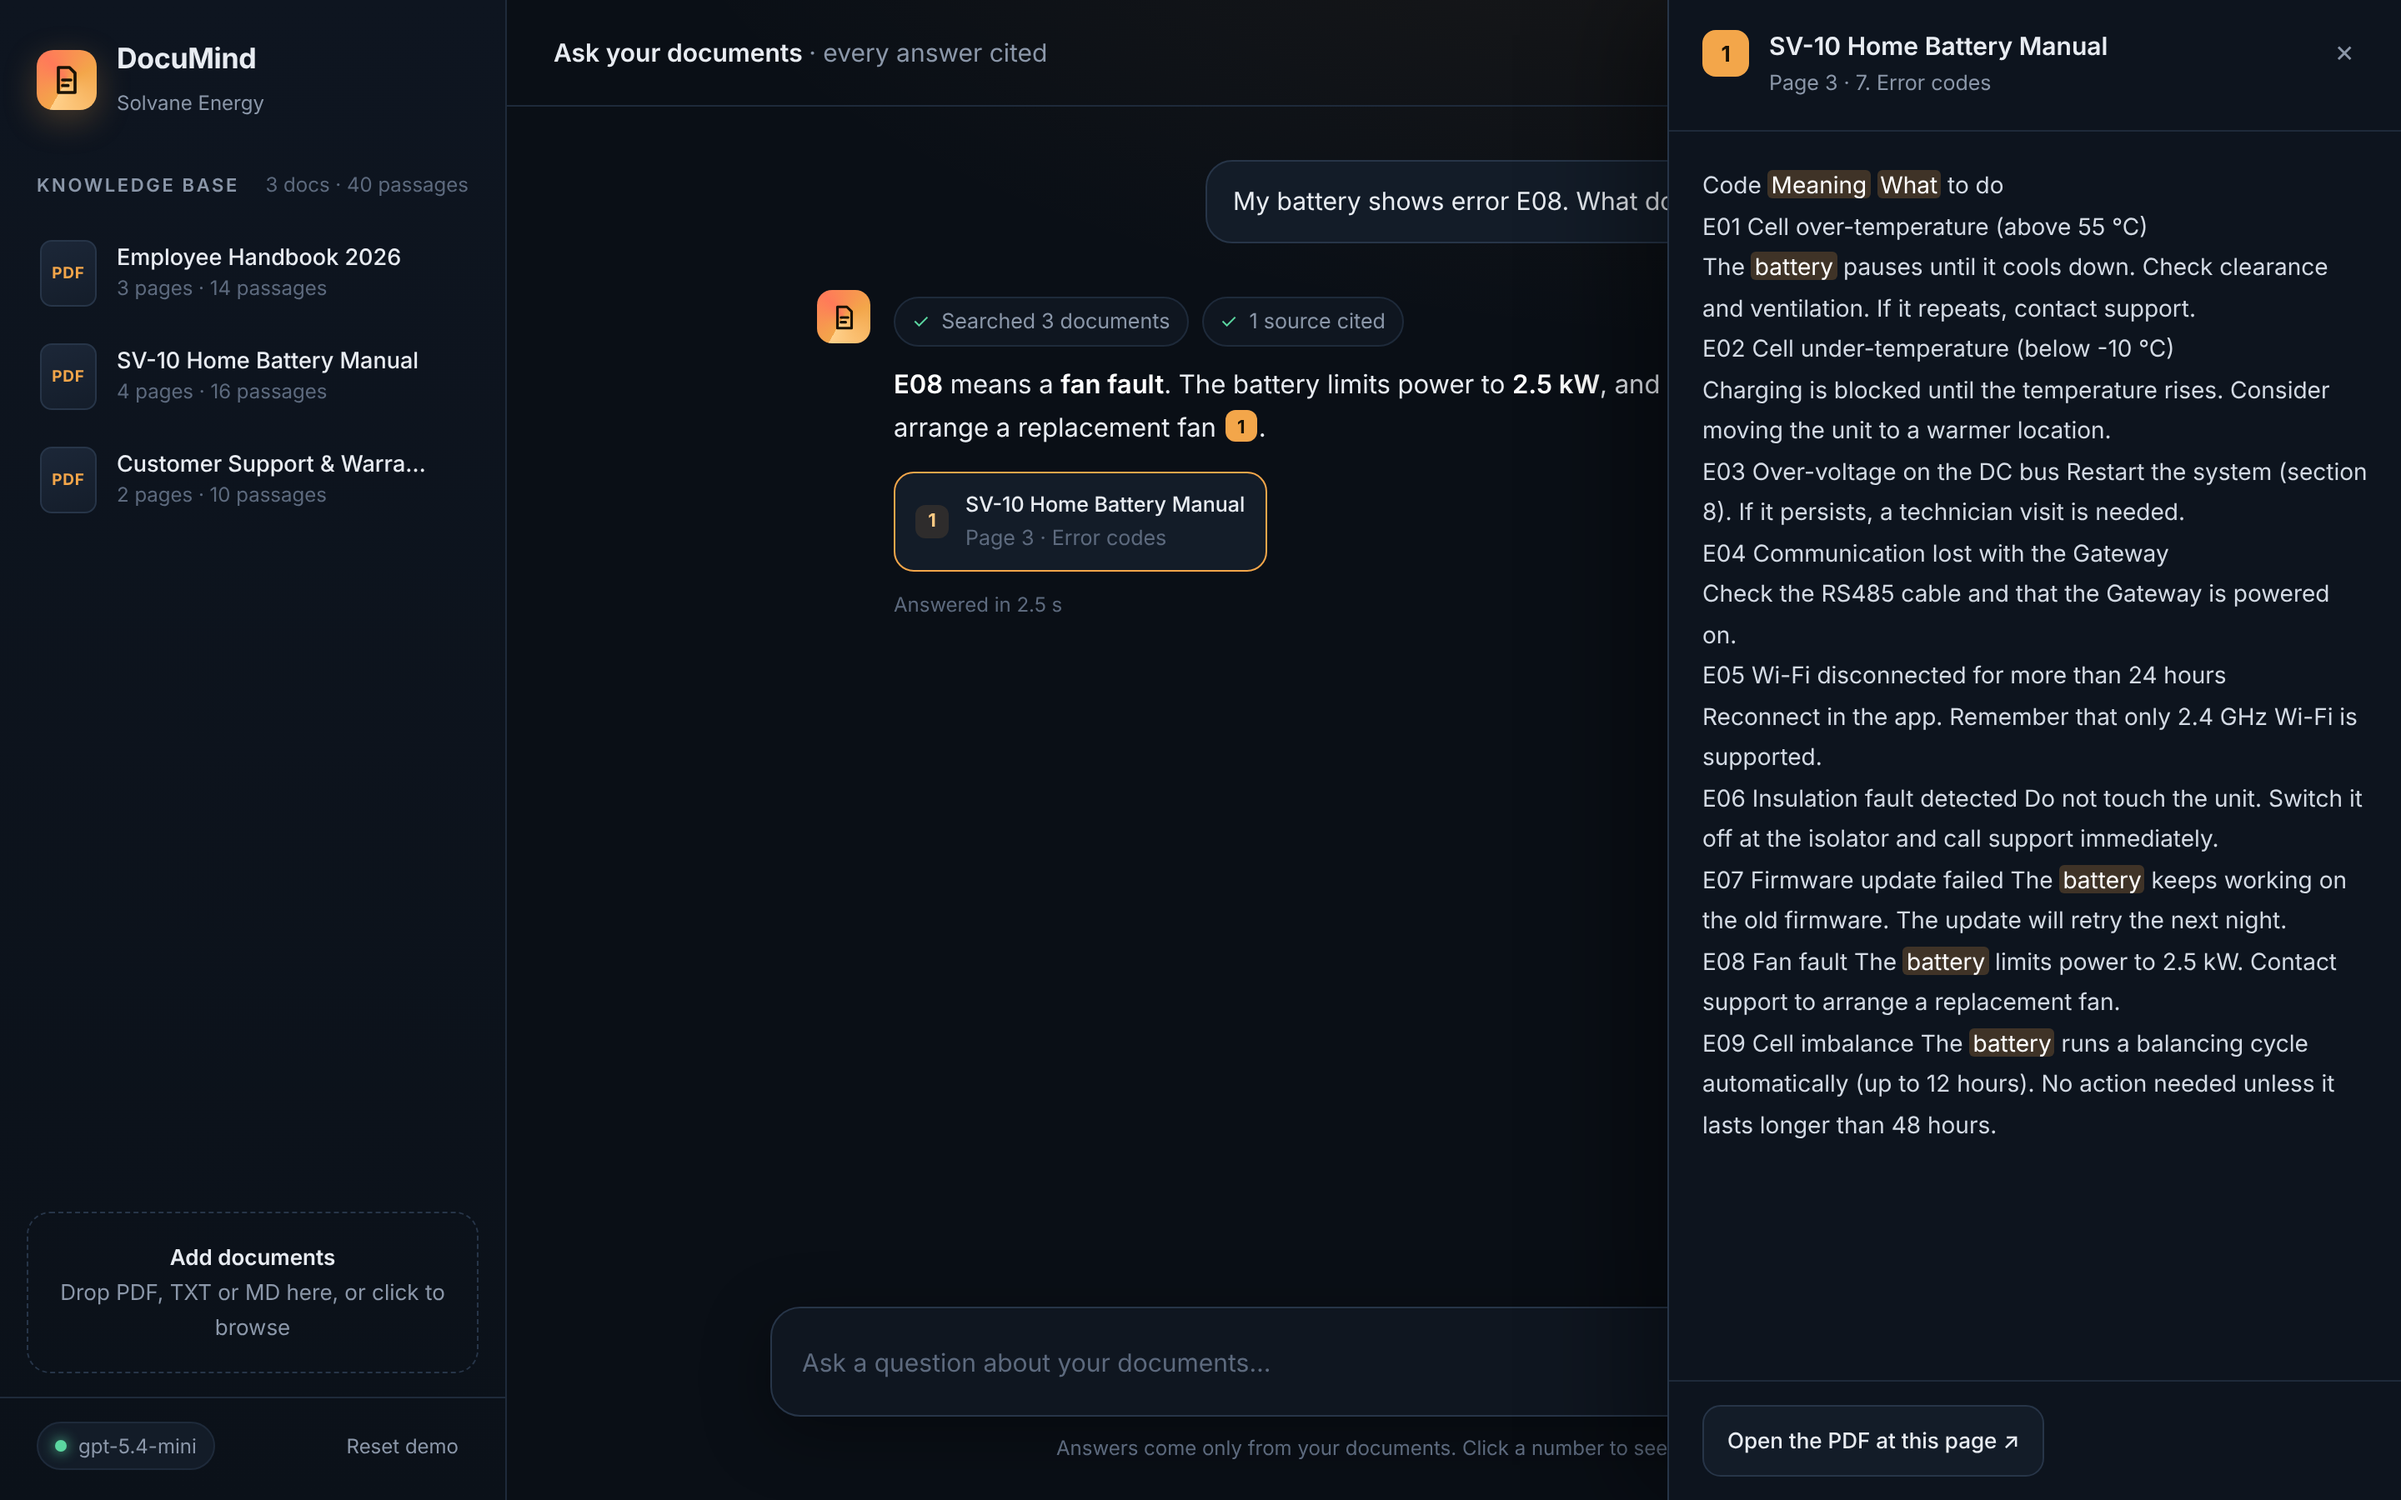
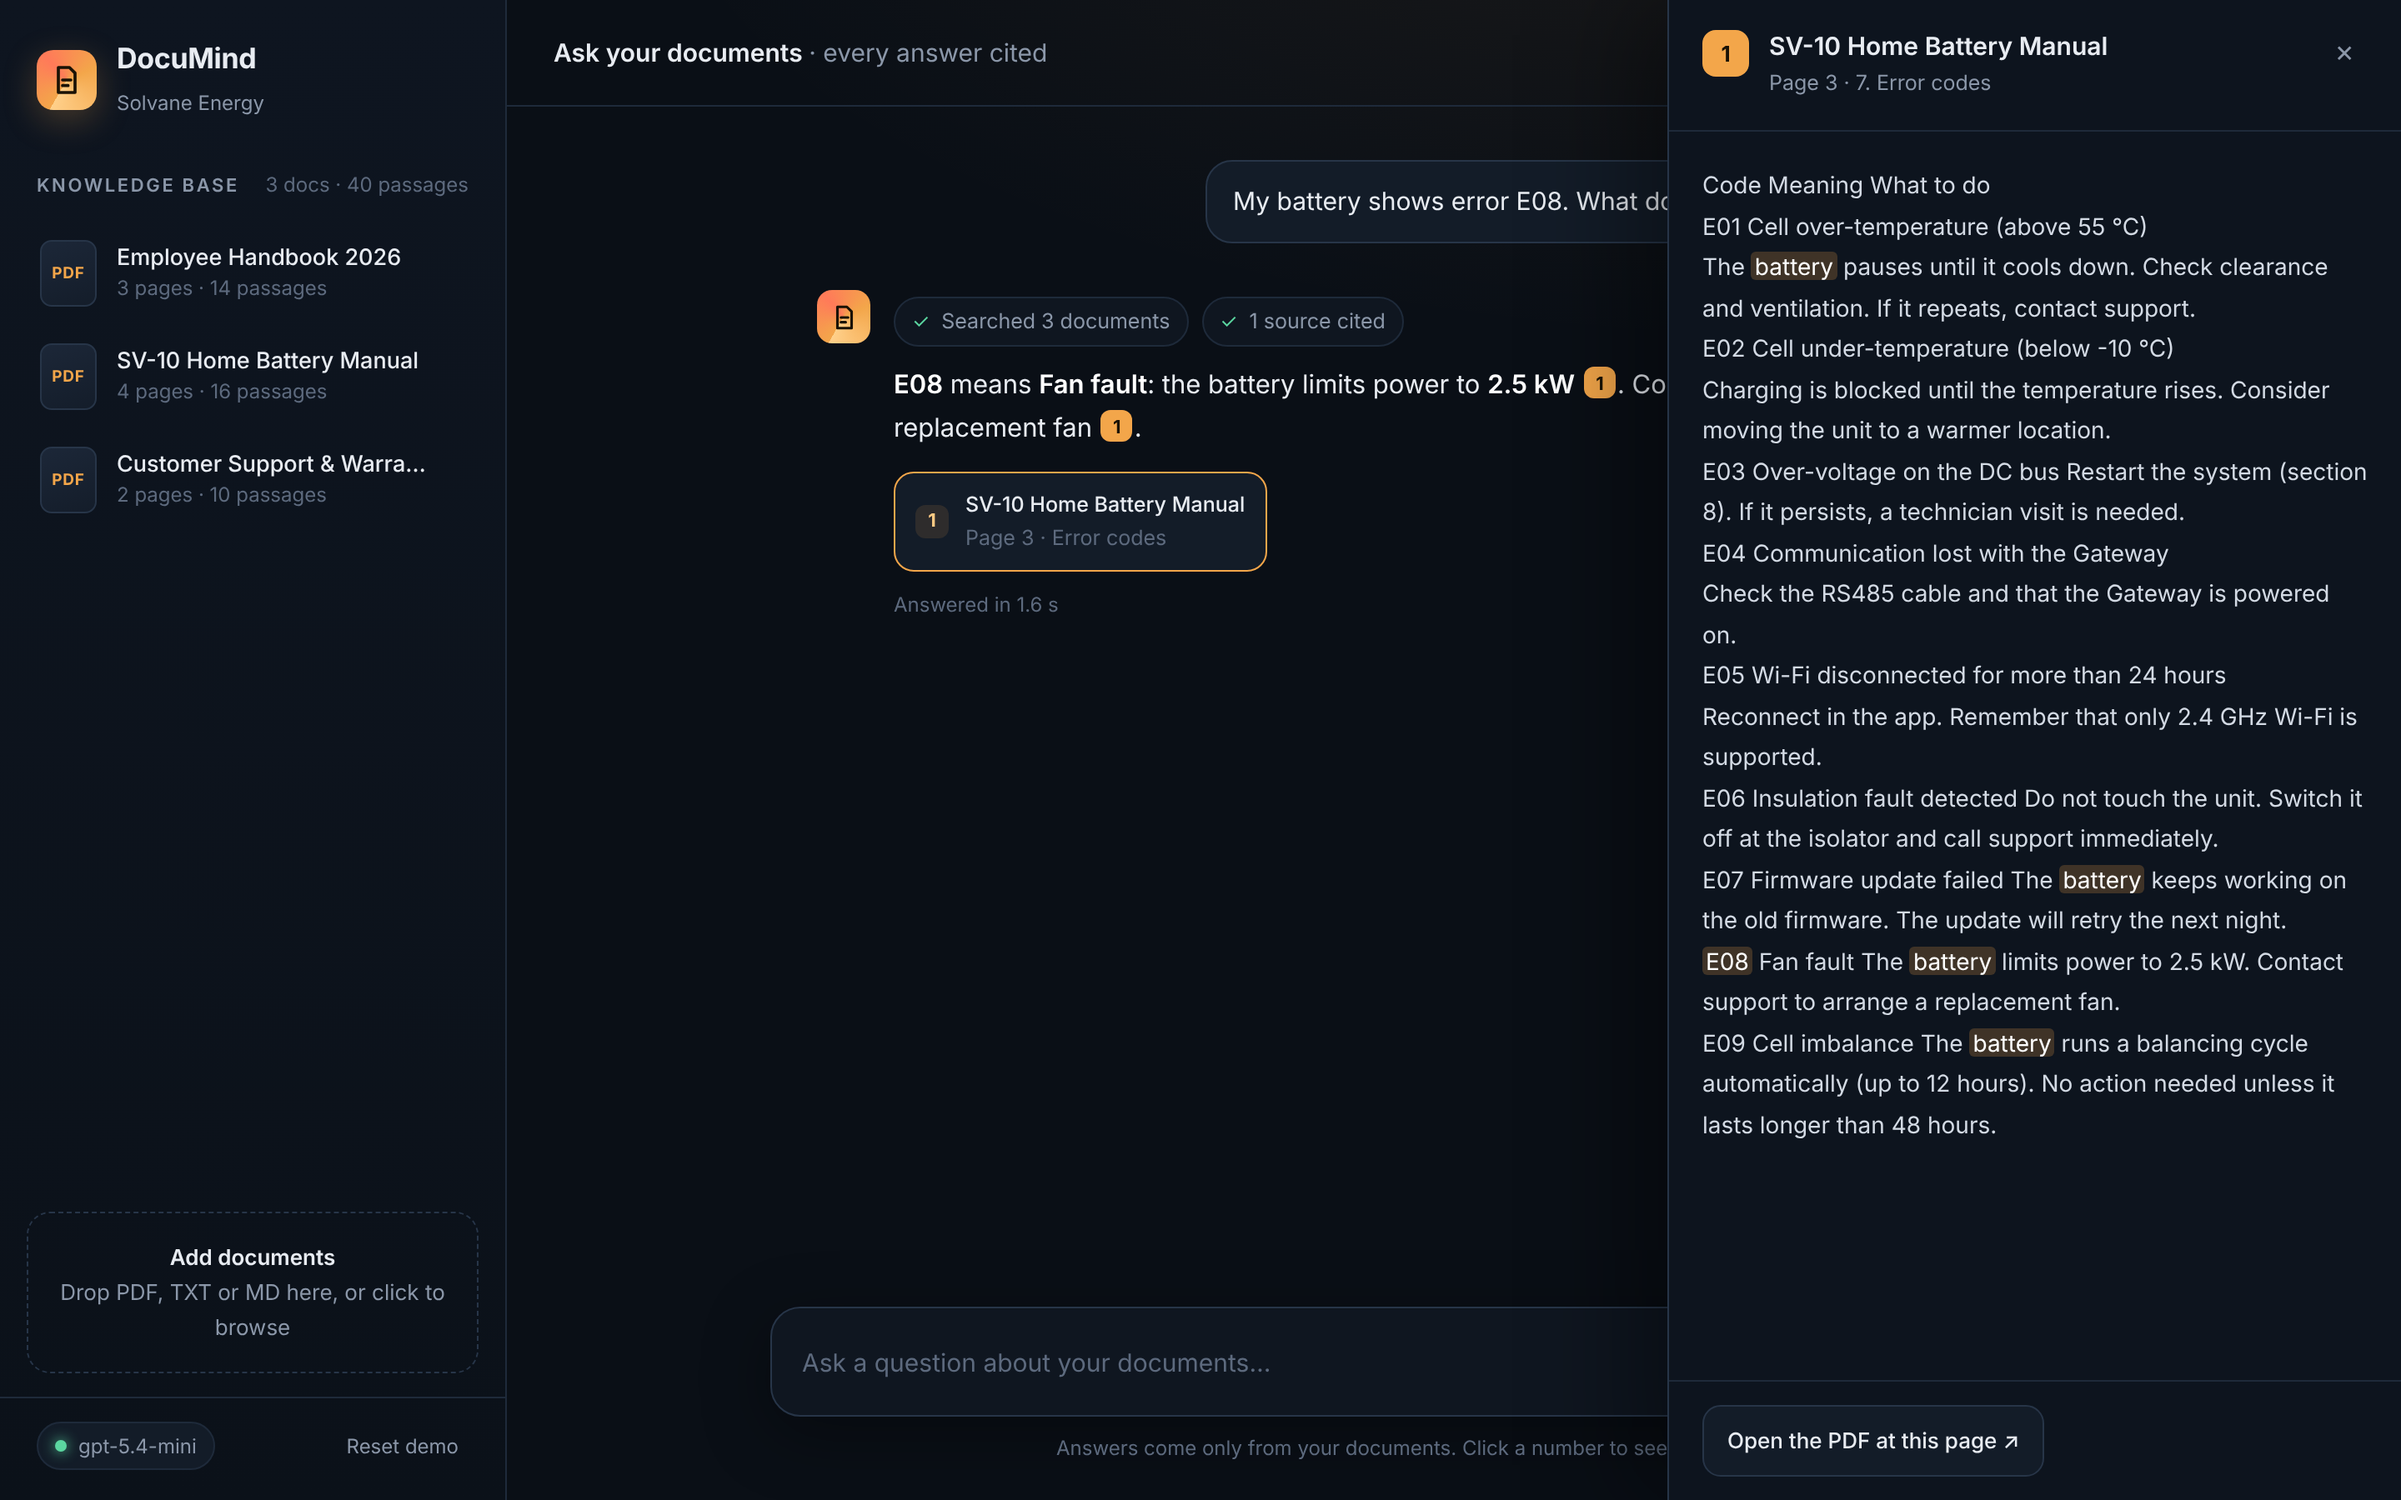
Highlight codes and key terms in the source panel; refresh screenshot

Changed region(s): [[0.375, 0.2489, 0.6875, 0.3111], [0.6875, 0.6222, 0.9688, 0.6533], [0.7188, 0.0933, 0.8125, 0.1556]]

diff --git a/static/index.html b/static/index.html
@@ -214,7 +214,7 @@ function scrollDown(){const s=$('#scroll');s.scrollTop=s.scrollHeight}
 function openSource(src,query){
   $('#pn').textContent=src.n; $('#pt').textContent=src.doc_title; $('#pm').textContent=`Page ${src.page}${src.section?' · '+src.section:''}`;
   const STOP=new Set('what does mean meaning should about there which would could with this that from have your when where many much they them their will into than then also some does doing done want need tell know'.split(' '));
-  const words=[...new Set((query||'').toLowerCase().match(/[a-z0-9]{4,}/g)||[])].filter(w=>!STOP.has(w));
+  const words=[...new Set((query||'').toLowerCase().match(/[a-z0-9]{2,}/g)||[])].filter(w=>(w.length>=4||/\d/.test(w))&&!STOP.has(w));
   let body=esc(src.text); words.forEach(w=>{body=body.replace(new RegExp('\\b('+w.replace(/[.*+?^${}()|[\]\\]/g,'\\$&')+'\\w*)','gi'),'<mark>$1</mark>')});
   $('#pbody').innerHTML=body; $('#popen').href=`/files/${src.file}#page=${src.page}`; $('#panel').classList.add('open');
   document.querySelectorAll('.cite,.src').forEach(e=>e.classList.toggle('on',e.dataset.n==src.n&&e.closest('.msg')===openSource.msg));
